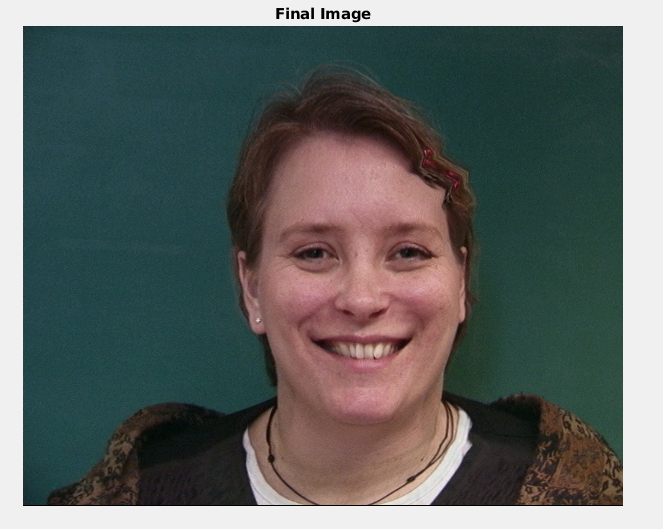
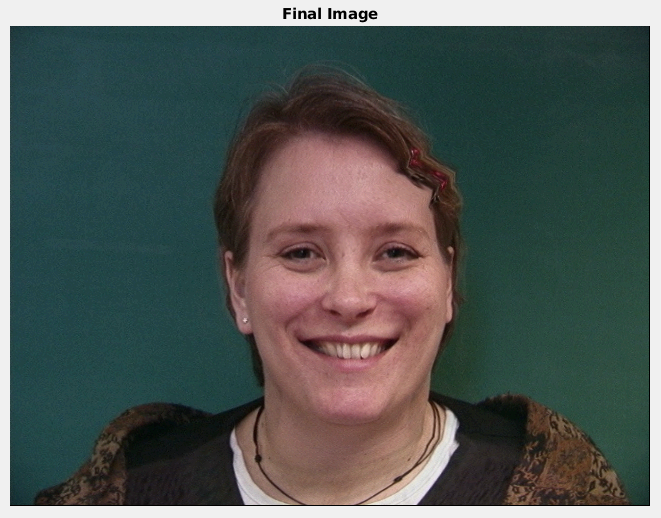
update

Changed region(s): [[0.0, 0.0309, 0.9985, 0.9884], [0.3933, 0.0, 0.5749, 0.0618], [0.3631, 0.2162, 0.3933, 0.278]]

diff --git a/main.m b/main.m
@@ -1,17 +1,22 @@
 function A = main()
 
+img_1 = imread('img/23-5m.jpg'); 
+img_2 = imread('img/13-5m.jpg');
+
+dim_1 = size(img_1);
+dim_2 = size(img_2);
 
 raw_X_1 = [ 0.34049898  0.34856352  0.35864416  0.38787803  0.42416835  0.45753528  0.49775705  0.54291835  0.57840222  0.60395663  0.62366433  0.63172884  0.63888609  0.59654737  0.58142638  0.56126511  0.54816025  0.5310232  0.54916835  0.56630546  0.58243448  0.38384578  0.39896673  0.4171119  0.43525705  0.45541835  0.43424898  0.41509578  0.39997479  0.51892638  0.5542087  0.58243448  0.60965222  0.62376511  0.45743448  0.42316028  0.38888609  0.36469254  0.35057965  0.43223286  0.47255543  0.49574092  0.51489413  0.55622482  0.51892638  0.50178933  0.47457156  0.47356352  0.46650705  0.4483619  0.45441028  0.47255543  0.49674898  0.51388609  0.53606349  0.54110384  0.53001511  0.51489413  1  0  1  0  0.1625  0.196875  0.35625  0.328125  0.2984375  0.3046875  0.3171875  0.3109375  0.3734375  0.478125  0.590625  0.65  0.6484375  0.659375  0.6671875  0.65625  0.609375  0.784375  0.8203125];
 raw_Y_1 = [0.6246562  0.66899616  0.71333605  0.78186136  0.82351404  0.84144946  0.85038674  0.83963764  0.80396345  0.76170689  0.71736693  0.66630888  0.62062532  0.49298009  0.48223102  0.47820011  0.48760554  0.50104189  0.50910372  0.5131346  0.50776005  0.49701098  0.47954375  0.47551286  0.48626193  0.50238556  0.50776005  0.51447821  0.51044732  0.44729653  0.42042387  0.41370568  0.4217675  0.4580456  0.43520382  0.41908023  0.41370568  0.43117294  0.47551286  0.70124334  0.67571431  0.68377608  0.67705792  0.70124334  0.7361778  0.73752147  0.73349059  0.5131346  0.57762903  0.59778357  0.63137436  0.63674891  0.64481074  0.6354053  0.63003075  0.59509629  0.58300358  0.51179093  1  1  0  0  1  0.9416666667  0.8708333333  0.6604166667  0.5854166667  0.4625  0.4729166667  0.29375  0.1729166667  0.10625  0.1666666667  0.2416666667  0.4625  0.4479166667  0.5375  0.6291666667  0.8770833333  0.9645833333  1];
 
-X_1 = raw_X_1 * 640;
-Y_1 = raw_Y_1 *480;
+X_1 = raw_X_1 * dim_1(2);
+Y_1 = raw_Y_1 *dim_1(1);
 
 raw_X_2 = [0.41307965 	0.41912803 	0.43424898 	0.45642641 	0.47356352 	0.50279737 	0.54009575 	0.58041835 	0.606628 	0.62981349 	0.64594257 	0.65400708 	0.6560232 	0.62880546 	0.62174898 	0.60360384 	0.5844506 	0.56832159 	0.58041835 	0.60057962 	0.61872482 	0.43828124 	0.45138609 	0.46650705 	0.48263609 	0.50481349 	0.48566028 	0.4685232 	0.45340222 	0.55824095 	0.58646673 	0.60864413 	0.62779737 	0.64392638 	0.4997732 	0.47557965 	0.44735384 	0.43122479 	0.42013609 	0.4796119 	0.52699095 	0.544128 	0.55824095 	0.59856349 	0.56529737 	0.54513609 	0.51892638 	0.51993448 	0.51186997 	0.50178933 	0.50582159 	0.5229587 	0.54110384 	0.55723286 	0.57436997 	0.57638609 	0.56428933 	0.55521673 	1 	               0 	        1 	        0 	        0.1046875    0.184375       0.41875         0.375           0.359375        0.3546875 0.375           0.359375          0.403125        0.5078125       0.61875    0.665625        0.665625 0.675           0.678125    0.6796875    0.6234375    0.8015625    0.9171875];
 raw_Y_2 = [0.62868714 	0.68243247 	0.72811604 	0.76036322 	0.78857952 	0.82485765 	0.83291948 	0.81410861 	0.77648687 	0.74155235 	0.70258701 	0.6528725 	0.61659443 	0.50776005 	0.49969825 	0.49029282 	0.49566737 	0.50910372 	0.51447821 	0.51716548 	0.51582187 	0.51850915 	0.50776005 	0.49835461 	0.50507277 	0.51582187 	0.52388364 	0.53060186 	0.52791458 	0.46073288 	0.4378911 	0.4378911 	0.44057837 	0.46073288 	0.46073288 	0.44595289 	0.44998381 	0.46207651 	0.48626193 	0.69318151 	0.66765249 	0.67437065 	0.67033976 	0.68108886 	0.72408509 	0.72542876 	0.72408509 	0.51582187 	0.58300358 	0.607189 	0.63271803 	0.63406163 	0.63809258 	0.63271803 	0.62734348 	0.59912717 	0.58300358 	0.51985276 	1                  1    	    0 	        0 	        1            0.9104166667   0.8104166667    0.6145833333    0.5479166667    0.4875    0.4979166667    0.3458333333      0.1895833333    0.1541666667    0.18125    0.2854166667    0.475    0.4604166667    0.5         0.59375      0.825        0.88125      1];
 
-X_2 = raw_X_2 *640;
-Y_2 = raw_Y_2 *480;
+X_2 = raw_X_2 *dim_2(2);
+Y_2 = raw_Y_2 *dim_2(1);
 
 % assign triangles based on 50-50 face
 X_av = (X_2*(.5)+ X_1*(.5));
@@ -22,23 +27,21 @@ tri_av = delaunay(X_av,Y_av);
 
 
 % Get Photos
-img_1 = imread('img/23-5m.jpg'); 
-figure; 
-set(gcf, 'color','w'); 
-set(gcf, 'Position', [0, 0, 100, 100])
-imshow(img_1); 
-title('Source image 1 and triangle mask'); 
-drawnow;
-hold on;
-% Obtain triangulation 
-triplot(tri_av,X_1,Y_1);
-hold off;
+% figure; 
+% set(gcf, 'color','w'); 
+% set(gcf, 'Position', [0, 0, 100, 100])
+% imshow(img_1); 
+% title('Source image 1 and triangle mask'); 
+% drawnow;
+% hold on;
+% % Obtain triangulation 
+% triplot(tri_av,X_1,Y_1);
+% hold off;
 
 
 
 
 iter = 44;
-img_2 = imread('img/13-5m.jpg');
 transpose = 0;
 current_time = 1;
 while transpose<=1
@@ -63,16 +66,16 @@ while transpose<=1
     
 end
 
-% IMG 2 Test 
-figure; 
-set(gcf, 'color','w'); 
-set(gcf, 'Position', [0, 0, 100, 100])
-imshow(img_2); 
-title('Source image 2 and triangle mask'); 
-drawnow;
-hold on;
-triplot(tri_av,X_2,Y_2);
-hold off;
+% % IMG 2 Test 
+% figure; 
+% set(gcf, 'color','w'); 
+% set(gcf, 'Position', [0, 0, 100, 100])
+% imshow(img_2); 
+% title('Source image 2 and triangle mask'); 
+% drawnow;
+% hold on;
+% triplot(tri_av,X_2,Y_2);
+% hold off;
 
 return
 

diff --git a/calcAverage.m b/calcAverage.m
@@ -1,7 +1,9 @@
 function a = calcAverage()
 
+imgX = 640;
+imgY = 480;
 numFaces = 7;
-finalImage = uint8(zeros(480,640,3));
+finalImage = uint8(zeros(imgY,imgX,3));
 im1 = imread('avg_face_img/08-2f.jpg');
 im2 = imread('avg_face_img/12-2f.jpg');
 im3 = imread('avg_face_img/14-2f.jpg');
@@ -36,22 +38,22 @@ tri = delaunay(X_av,Y_av);
 for iTriangle = 1 : length(tri)
     
     % Estimate the transformation between each face and average face.
-    img1_X_Vals = [face1_X(tri(iTriangle,1))*640, face1_X(tri(iTriangle,2))*640, face1_X(tri(iTriangle,3))*640];
-    img1_Y_Vals = [face1_Y(tri(iTriangle,1))*480, face1_Y(tri(iTriangle,2))*480, face1_Y(tri(iTriangle,3))*480];
-    img2_X_Vals = [face2_X(tri(iTriangle,1))*640, face2_X(tri(iTriangle,2))*640, face2_X(tri(iTriangle,3))*640];
-    img2_Y_Vals = [face2_Y(tri(iTriangle,1))*480, face2_Y(tri(iTriangle,2))*480, face2_Y(tri(iTriangle,3))*480];
-    img3_X_Vals = [face3_X(tri(iTriangle,1))*640, face3_X(tri(iTriangle,2))*640, face3_X(tri(iTriangle,3))*640];
-    img3_Y_Vals = [face3_Y(tri(iTriangle,1))*480, face3_Y(tri(iTriangle,2))*480, face3_Y(tri(iTriangle,3))*480];
-    img4_X_Vals = [face4_X(tri(iTriangle,1))*640, face4_X(tri(iTriangle,2))*640, face4_X(tri(iTriangle,3))*640];
-    img4_Y_Vals = [face4_Y(tri(iTriangle,1))*480, face4_Y(tri(iTriangle,2))*480, face4_Y(tri(iTriangle,3))*480];
-    img5_X_Vals = [face5_X(tri(iTriangle,1))*640, face5_X(tri(iTriangle,2))*640, face5_X(tri(iTriangle,3))*640];
-    img5_Y_Vals = [face5_Y(tri(iTriangle,1))*480, face5_Y(tri(iTriangle,2))*480, face5_Y(tri(iTriangle,3))*480];
-    img6_X_Vals = [face6_X(tri(iTriangle,1))*640, face6_X(tri(iTriangle,2))*640, face6_X(tri(iTriangle,3))*640];
-    img6_Y_Vals = [face6_Y(tri(iTriangle,1))*480, face6_Y(tri(iTriangle,2))*480, face6_Y(tri(iTriangle,3))*480];
-    img7_X_Vals = [face7_X(tri(iTriangle,1))*640, face7_X(tri(iTriangle,2))*640, face7_X(tri(iTriangle,3))*640];
-    img7_Y_Vals = [face7_Y(tri(iTriangle,1))*480, face7_Y(tri(iTriangle,2))*480, face7_Y(tri(iTriangle,3))*480];
-    target_X_Vals = [X_av(tri(iTriangle,1))*640, X_av(tri(iTriangle,2))*640, X_av(tri(iTriangle,3))*640]
-    target_Y_Vals = [Y_av(tri(iTriangle,1))*480, Y_av(tri(iTriangle,2))*480, Y_av(tri(iTriangle,3))*480]
+    img1_X_Vals = [face1_X(tri(iTriangle,1))*imgX, face1_X(tri(iTriangle,2))*imgX, face1_X(tri(iTriangle,3))*imgX];
+    img1_Y_Vals = [face1_Y(tri(iTriangle,1))*imgY, face1_Y(tri(iTriangle,2))*imgY, face1_Y(tri(iTriangle,3))*imgY];
+    img2_X_Vals = [face2_X(tri(iTriangle,1))*imgX, face2_X(tri(iTriangle,2))*imgX, face2_X(tri(iTriangle,3))*imgX];
+    img2_Y_Vals = [face2_Y(tri(iTriangle,1))*imgY, face2_Y(tri(iTriangle,2))*imgY, face2_Y(tri(iTriangle,3))*imgY];
+    img3_X_Vals = [face3_X(tri(iTriangle,1))*imgX, face3_X(tri(iTriangle,2))*imgX, face3_X(tri(iTriangle,3))*imgX];
+    img3_Y_Vals = [face3_Y(tri(iTriangle,1))*imgY, face3_Y(tri(iTriangle,2))*imgY, face3_Y(tri(iTriangle,3))*imgY];
+    img4_X_Vals = [face4_X(tri(iTriangle,1))*imgX, face4_X(tri(iTriangle,2))*imgX, face4_X(tri(iTriangle,3))*imgX];
+    img4_Y_Vals = [face4_Y(tri(iTriangle,1))*imgY, face4_Y(tri(iTriangle,2))*imgY, face4_Y(tri(iTriangle,3))*imgY];
+    img5_X_Vals = [face5_X(tri(iTriangle,1))*imgX, face5_X(tri(iTriangle,2))*imgX, face5_X(tri(iTriangle,3))*imgX];
+    img5_Y_Vals = [face5_Y(tri(iTriangle,1))*imgY, face5_Y(tri(iTriangle,2))*imgY, face5_Y(tri(iTriangle,3))*imgY];
+    img6_X_Vals = [face6_X(tri(iTriangle,1))*imgX, face6_X(tri(iTriangle,2))*imgX, face6_X(tri(iTriangle,3))*imgX];
+    img6_Y_Vals = [face6_Y(tri(iTriangle,1))*imgY, face6_Y(tri(iTriangle,2))*imgY, face6_Y(tri(iTriangle,3))*imgY];
+    img7_X_Vals = [face7_X(tri(iTriangle,1))*imgX, face7_X(tri(iTriangle,2))*imgX, face7_X(tri(iTriangle,3))*imgX];
+    img7_Y_Vals = [face7_Y(tri(iTriangle,1))*imgY, face7_Y(tri(iTriangle,2))*imgY, face7_Y(tri(iTriangle,3))*imgY];
+    target_X_Vals = [X_av(tri(iTriangle,1))*imgX, X_av(tri(iTriangle,2))*imgX, X_av(tri(iTriangle,3))*imgX]
+    target_Y_Vals = [Y_av(tri(iTriangle,1))*imgY, Y_av(tri(iTriangle,2))*imgY, Y_av(tri(iTriangle,3))*imgY]
     
     
     A = estimateAffineBetweenShapes(img1_X_Vals, img1_Y_Vals, target_X_Vals, target_Y_Vals);

diff --git a/morph.m b/morph.m
@@ -1,11 +1,12 @@
 function morphed_im = morph(im1, im2, im1_X, im1_Y, im2_X, im2_Y, tri, warp_frac, dissolve_frac)
 
 finalImage1 = uint8(zeros(480,640,3));
+dims = size(finalImage1);
 % Draw Average Face
 raw_X_av = (im2_X*(warp_frac) + im1_X*(1-warp_frac));
 raw_Y_av = (im2_Y*(warp_frac)+ im1_Y*(1-warp_frac));
-X_av = raw_X_av * 640;
-Y_av = raw_Y_av *480;
+X_av = raw_X_av * dims(2);
+Y_av = raw_Y_av *dims(1);
 
 
 
@@ -13,10 +14,10 @@ for iTriangle = 1 : length(tri)
     
     % Estimate the transformation between two shapes. 
     tri( iTriangle, 1:3)
-    img1_X_Vals = [im1_X(tri(iTriangle,1))*640, im1_X(tri(iTriangle,2))*640, im1_X(tri(iTriangle,3))*640];
-    img1_Y_Vals = [im1_Y(tri(iTriangle,1))*480, im1_Y(tri(iTriangle,2))*480, im1_Y(tri(iTriangle,3))*480];
-    img2_X_Vals = [im2_X(tri(iTriangle,1))*640, im2_X(tri(iTriangle,2))*640, im2_X(tri(iTriangle,3))*640];
-    img2_Y_Vals = [im2_Y(tri(iTriangle,1))*480, im2_Y(tri(iTriangle,2))*480, im2_Y(tri(iTriangle,3))*480];
+    img1_X_Vals = [im1_X(tri(iTriangle,1))*dims(2), im1_X(tri(iTriangle,2))*dims(2), im1_X(tri(iTriangle,3))*dims(2)];
+    img1_Y_Vals = [im1_Y(tri(iTriangle,1))*dims(1), im1_Y(tri(iTriangle,2))*dims(1), im1_Y(tri(iTriangle,3))*dims(1)];
+    img2_X_Vals = [im2_X(tri(iTriangle,1))*dims(2), im2_X(tri(iTriangle,2))*dims(2), im2_X(tri(iTriangle,3))*dims(2)];
+    img2_Y_Vals = [im2_Y(tri(iTriangle,1))*dims(1), im2_Y(tri(iTriangle,2))*dims(1), im2_Y(tri(iTriangle,3))*dims(1)];
     target_X_Vals = [X_av(tri(iTriangle,1)), X_av(tri(iTriangle,2)), X_av(tri(iTriangle,3))];
     target_Y_Vals = [Y_av(tri(iTriangle,1)), Y_av(tri(iTriangle,2)), Y_av(tri(iTriangle,3))];
     
@@ -81,15 +82,15 @@ end
 morphed_im = finalImage1;
 
 
-figure; 
-set(gcf, 'color','w'); 
-set(gcf, 'Position', [0, 0, 200, 200])
-imshow(morphed_im); 
-title('Face and Mask'); 
-drawnow;
-hold on;
-triplot(tri,X_av,Y_av);
-hold off;
+% figure; 
+% set(gcf, 'color','w'); 
+% set(gcf, 'Position', [0, 0, 200, 200])
+% imshow(morphed_im); 
+% title('Face and Mask'); 
+% drawnow;
+% hold on;
+% triplot(tri,X_av,Y_av);
+% hold off;
 
 
 return
